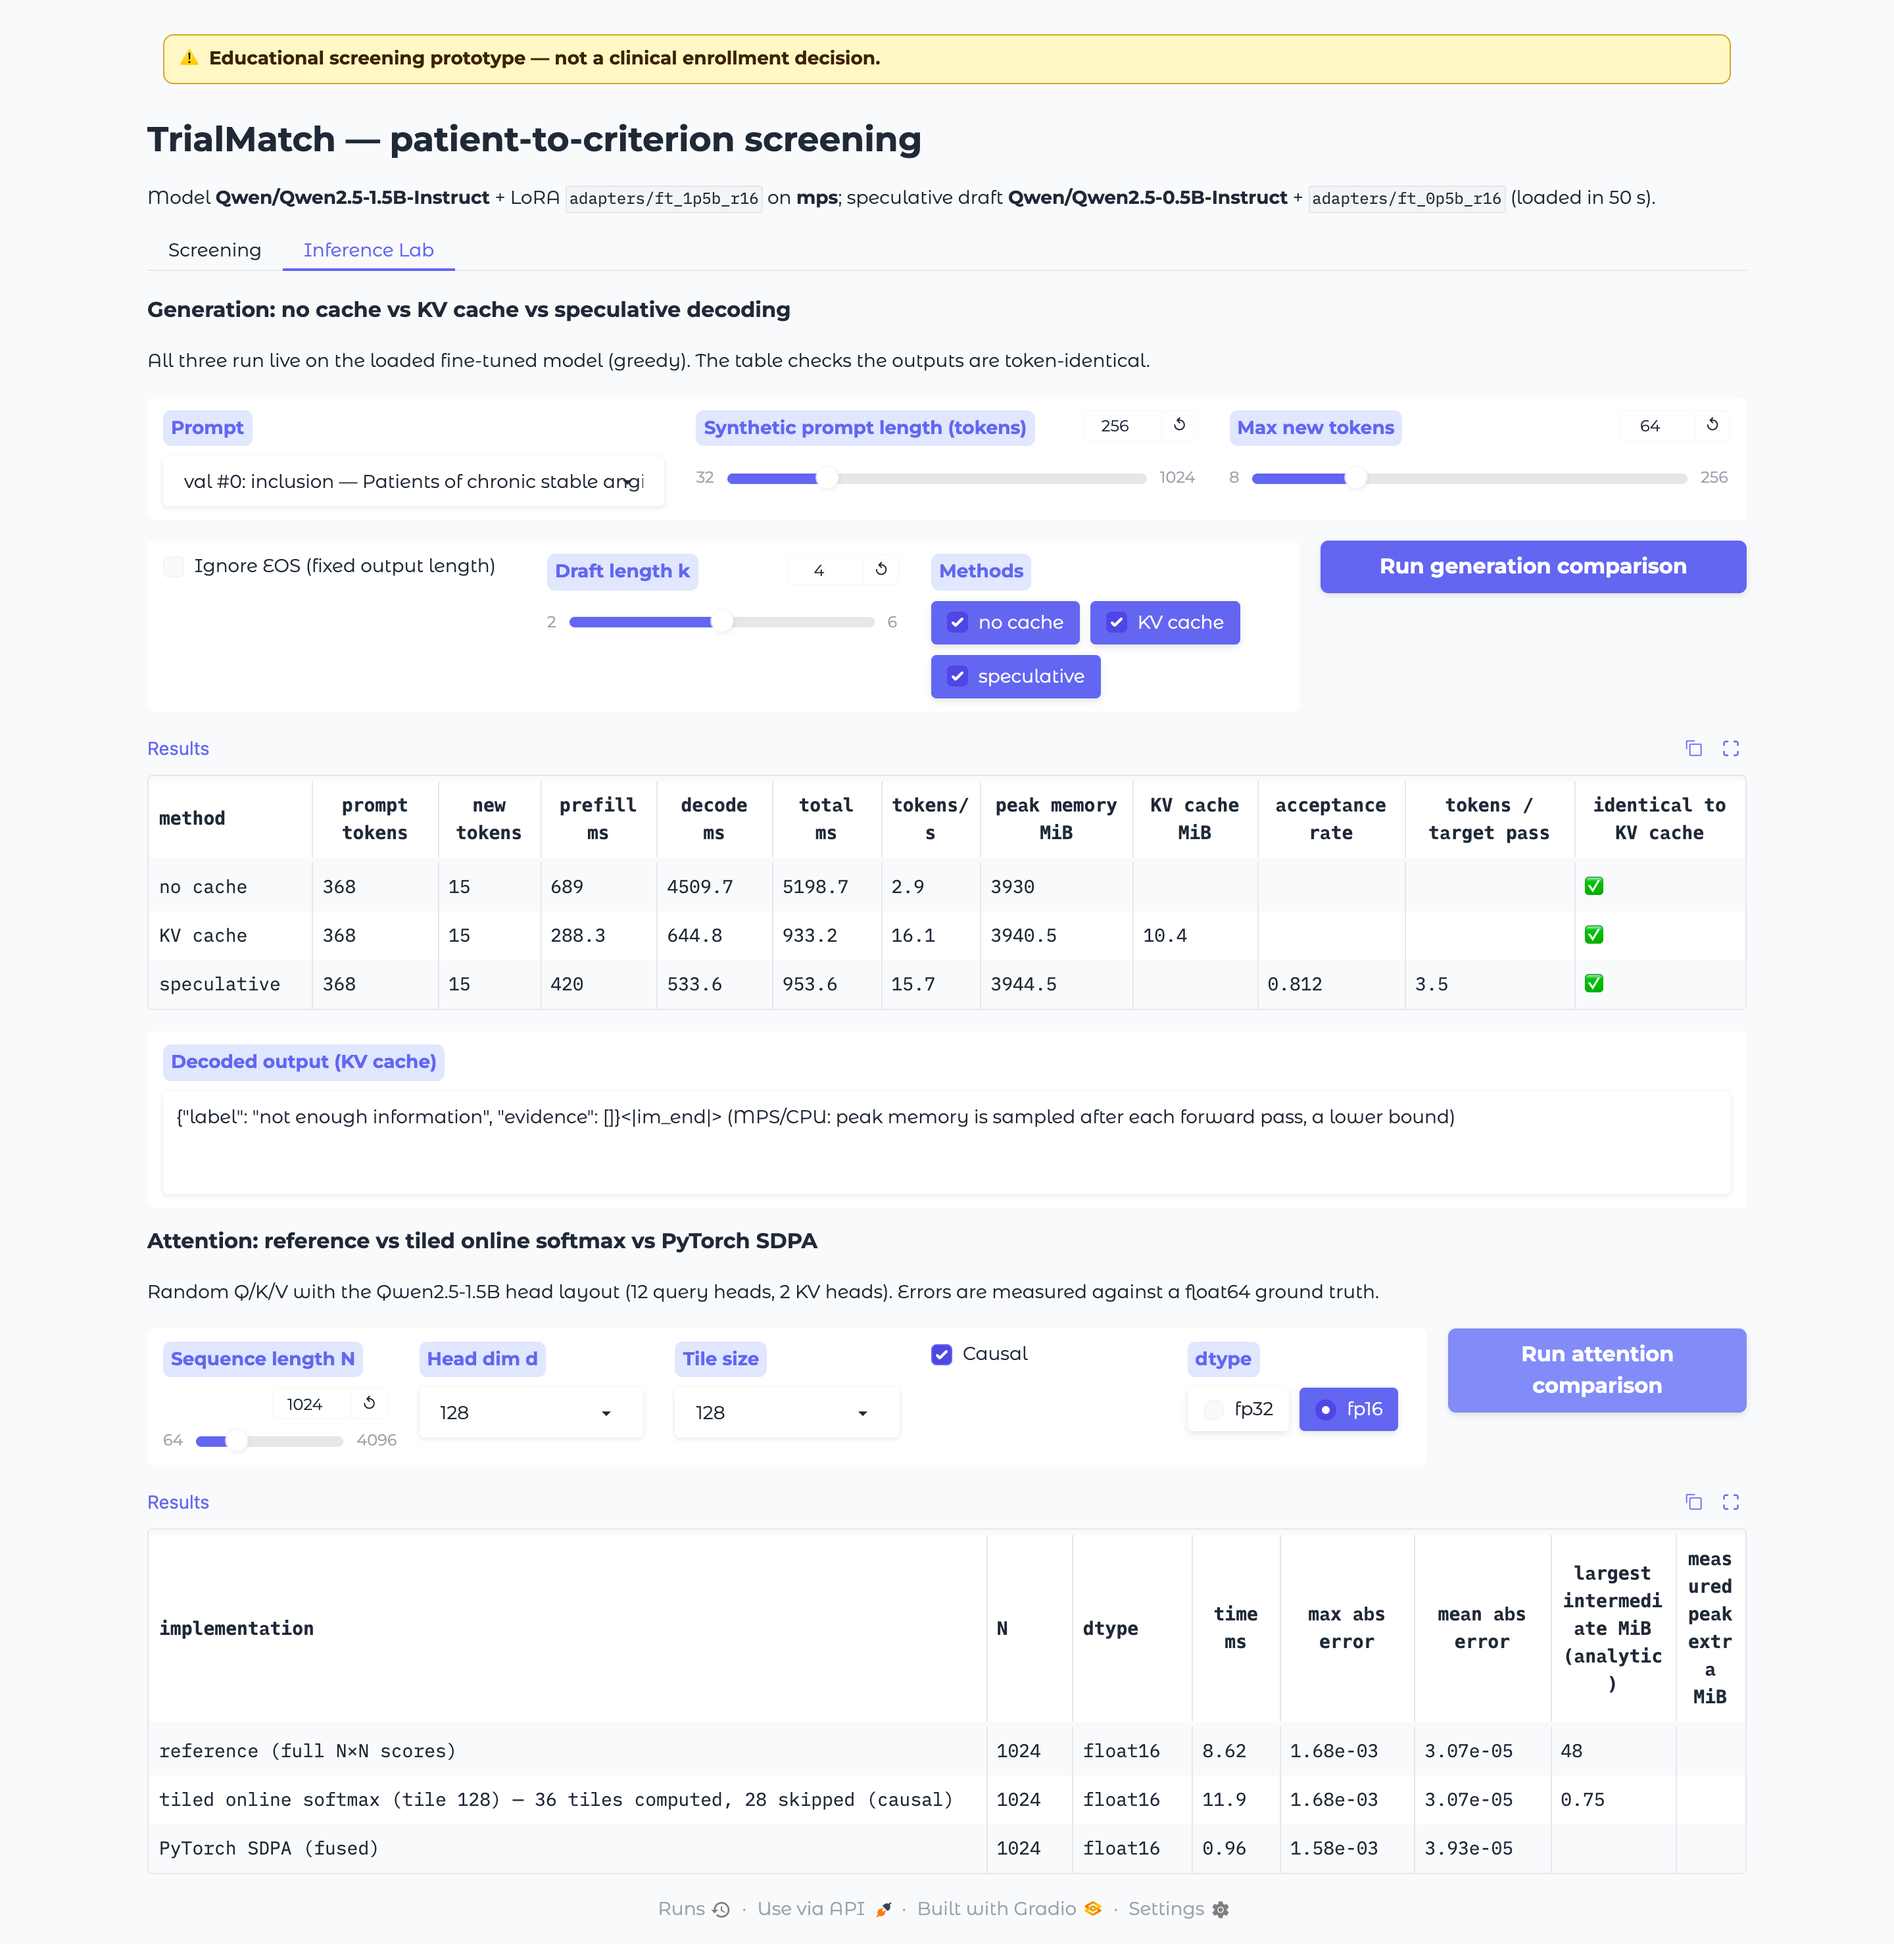
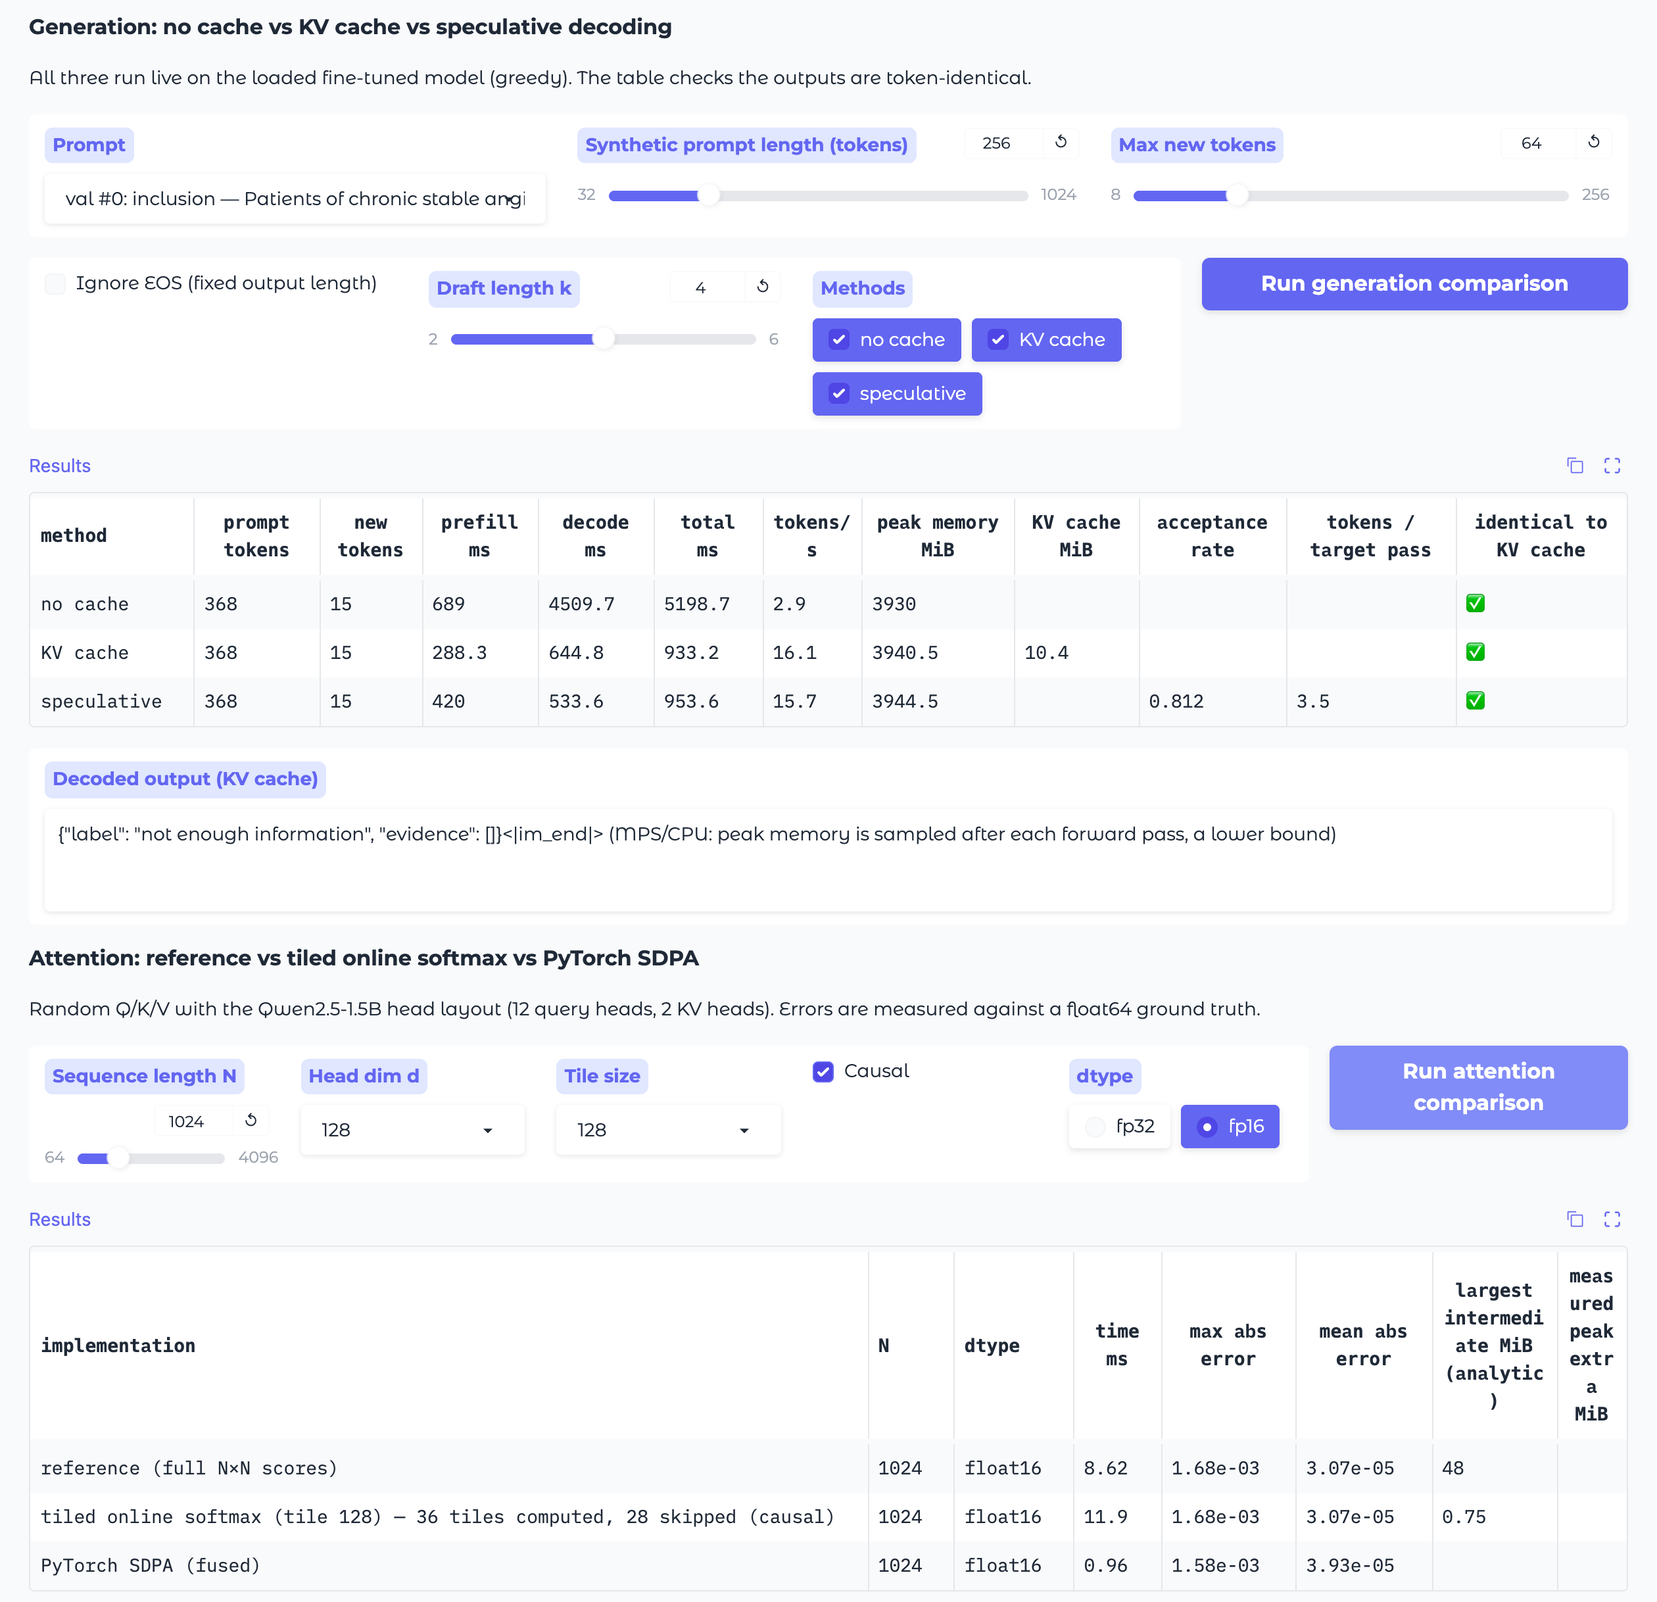
Report: larger two-row application figure; crop Inference Lab screenshot

diff --git a/report/main.tex b/report/main.tex
@@ -332,10 +332,10 @@ long & FT 0.5B & 6 & 0.456 & 3.74 & 6.82 & 18.8 & 0.87$\times$ \\
 
 \begin{figure*}[t]
 \centering
-\safegraphic{0.355\textwidth}{figures/app_screening.png}\hfill
-\safegraphic{0.315\textwidth}{figures/app_lab.png}\hfill
-\safegraphic{0.315\textwidth}{figures/app_report.png}
-\caption{Application. Left: Screening tab on a held-out test patient (all five criteria agree with the expert labels, shown for comparison), with verbatim evidence, template explanations and the rule-based outcome. Middle: Inference Lab, live generation comparison (all three decoders token-identical) and attention comparison. Right: exported HTML report with provenance.}
+\safegraphic{0.56\textwidth}{figures/app_screening.png}\hfill
+\safegraphic{0.42\textwidth}{figures/app_report.png}\\[6pt]
+\safegraphic{0.5\textwidth}{figures/app_lab.png}
+\caption{Application. Top left: Screening tab on a held-out test patient (all five criteria agree with the expert labels, shown for comparison), with verbatim evidence, template explanations and the rule-based outcome. Top right: exported HTML report with provenance. Bottom: Inference Lab, live generation comparison (all three decoders token-identical) and attention comparison against a float64 reference.}
 \label{fig:app}
 \end{figure*}
 
